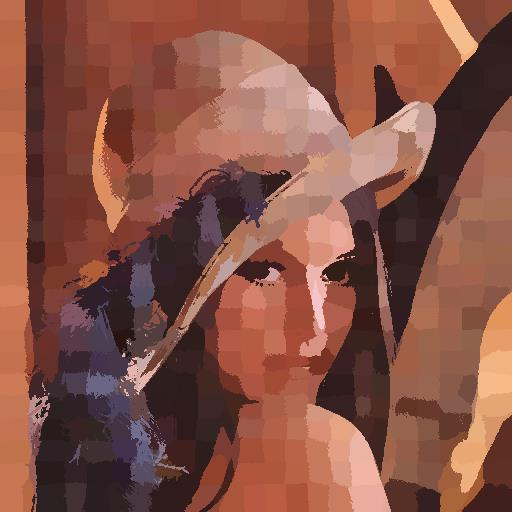
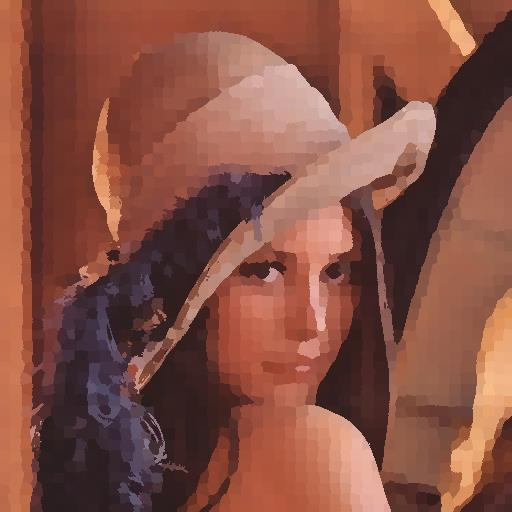
use average color

diff --git a/calcSuperPixel/Sliv.cpp b/calcSuperPixel/Sliv.cpp
@@ -11,7 +11,7 @@ Sliv::Sliv(wstring fileName, int k, int m)
 	N = width * height, K = k, M = m;
 	S = (int)sqrtf(N / K);
 
-	label = vector<Cluster*>(width * height, NULL);
+	label = vector<Cluster*>(N, NULL);
 	dis = vector<vector<float>>(width, vector<float>(height, 1e10));
 }
 
@@ -62,21 +62,21 @@ void Sliv::adjustCluster()
 
 void Sliv::search()
 {
-	int x, y;
-	float L, A, B, Dc, Ds, D;
+	int x, y, xMin, xMax, yMin, yMax;
+	float L, A, B, l, a, b, Dc, Ds, D;
 	for (Cluster& cluster : clusters) {
-		int xMin  = cluster.x - 2 * S, xMax = cluster.x + 2 * S;
-		int yMin = cluster.y - 2 * S, yMax = cluster.y + 2 * S;
+		xMin  = max(cluster.x - 2 * S, 0), xMax = min(cluster.x + 2 * S, width - 1);
+		yMin = max(cluster.y - 2 * S, 0), yMax = min(cluster.y + 2 * S, height - 1);
+		l = cluster.p[0], a = cluster.p[1], b = cluster.p[2];
 		for (x = xMin; x <= xMax; x++) {
-			if (x < 0 || x >= width) continue;
 			for (y = yMin; y <= yMax; y++) {
-				if (y < 0 || y >= height) continue;
 				L = image[x][y][0], A = image[x][y][1], B = image[x][y][2];
-				Dc = sqrt(pow(L - cluster.p[0], 2) + pow(A - cluster.p[1], 2) + pow(B - cluster.p[2], 2));
+				Dc = sqrt(pow(L - l, 2) + pow(A - a, 2) + pow(B - b, 2));
 				Ds = sqrt(pow(x - cluster.x, 2) + pow(y - cluster.y, 2));
 				D = sqrt(pow(Dc / M, 2) + pow(Ds / S, 2));
+
 				if (D < dis[x][y]) {
-					int position = x * width + y;
+					int position = x * height + y;
 					if (label[position]) {
 						label[position]->points.erase(position);
 					}
@@ -93,16 +93,20 @@ void Sliv::update()
 {
 	int x, y;
 	for (Cluster& cluster : clusters) {
-		int sumX = 0, sumY = 0;
+		int sumX = 0, sumY = 0, num = cluster.points.size();
+		float sumL = 0, sumA = 0, sumB = 0;
 		for (int position : cluster.points) {
 			x = position / width;
 			y = position % height;
 			sumX += x;
 			sumY += y;
+			sumL += image[x][y][0];
+			sumA += image[x][y][1];
+			sumB += image[x][y][2];
 		}
-		x = sumX / cluster.points.size();
-		y = sumY / cluster.points.size();
-		cluster.update(x, y, image[x][y]);
+		x = sumX / num;
+		y = sumY / num;
+		cluster.update(x, y, sumL / num, sumA / num, sumB / num);
 	}
 }
 
@@ -113,10 +117,13 @@ void Sliv::train(int times)
 	for (int i = 0; i < times; i++) {
 		time_t start = time(0);
 		search();
-		update();
 		time_t end = time(0);
-		std::cout << i << " " << end - start << endl;
+		std::cout << i << " search " << end - start << endl;
+		update();
+		end = time(0);
+		std::cout << i << " update " << time(0) - end << endl;
 		wstring name = L"lena" + to_wstring(i) + L".jpg";
+		end = time(0);
 		save(name);
 		std::cout << "save time " << time(0) - end << endl;
 	}
@@ -124,12 +131,12 @@ void Sliv::train(int times)
 
 void Sliv::save(wstring fileName)
 {
-	int x, y, w = width, h = height;
+	int x, y;
 	IMAGE newImage = Image::copy(image, width, height);
 	for (Cluster& cluster : clusters)
 		for (int  p : cluster.points) {
-			x = p / w;
-			y = p % w;
+			x = p / height;
+			y = p % height;
 			newImage[x][y][0] = cluster.p[0];
 			newImage[x][y][1] = cluster.p[1];
 			newImage[x][y][2] = cluster.p[2];

diff --git a/calcSuperPixel/Sliv.h b/calcSuperPixel/Sliv.h
@@ -16,6 +16,9 @@ public:
 	void update(int _x, int _y, Pixel _p) {
 		x = _x, y = _y, p[0] = _p[0], p[1] = _p[1], p[2] = _p[2];
 	}
+	void update(int _x, int _y, float l, float a, float b) {
+		x = _x, y = _y, p[0] = l, p[1] = a, p[2] = b;
+	}
 };
 
 class Sliv
